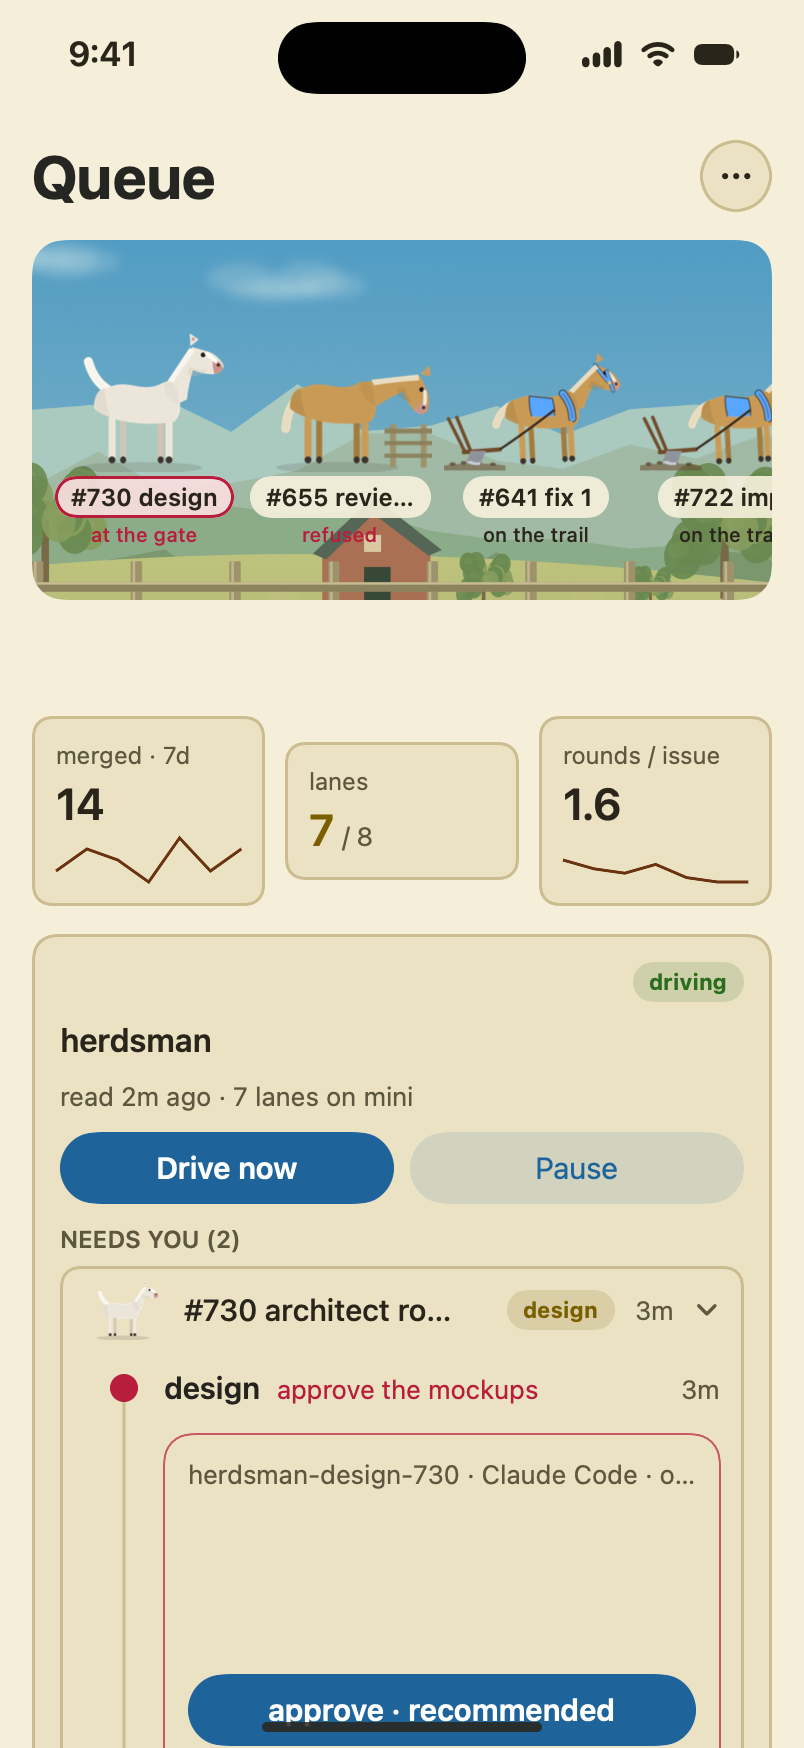
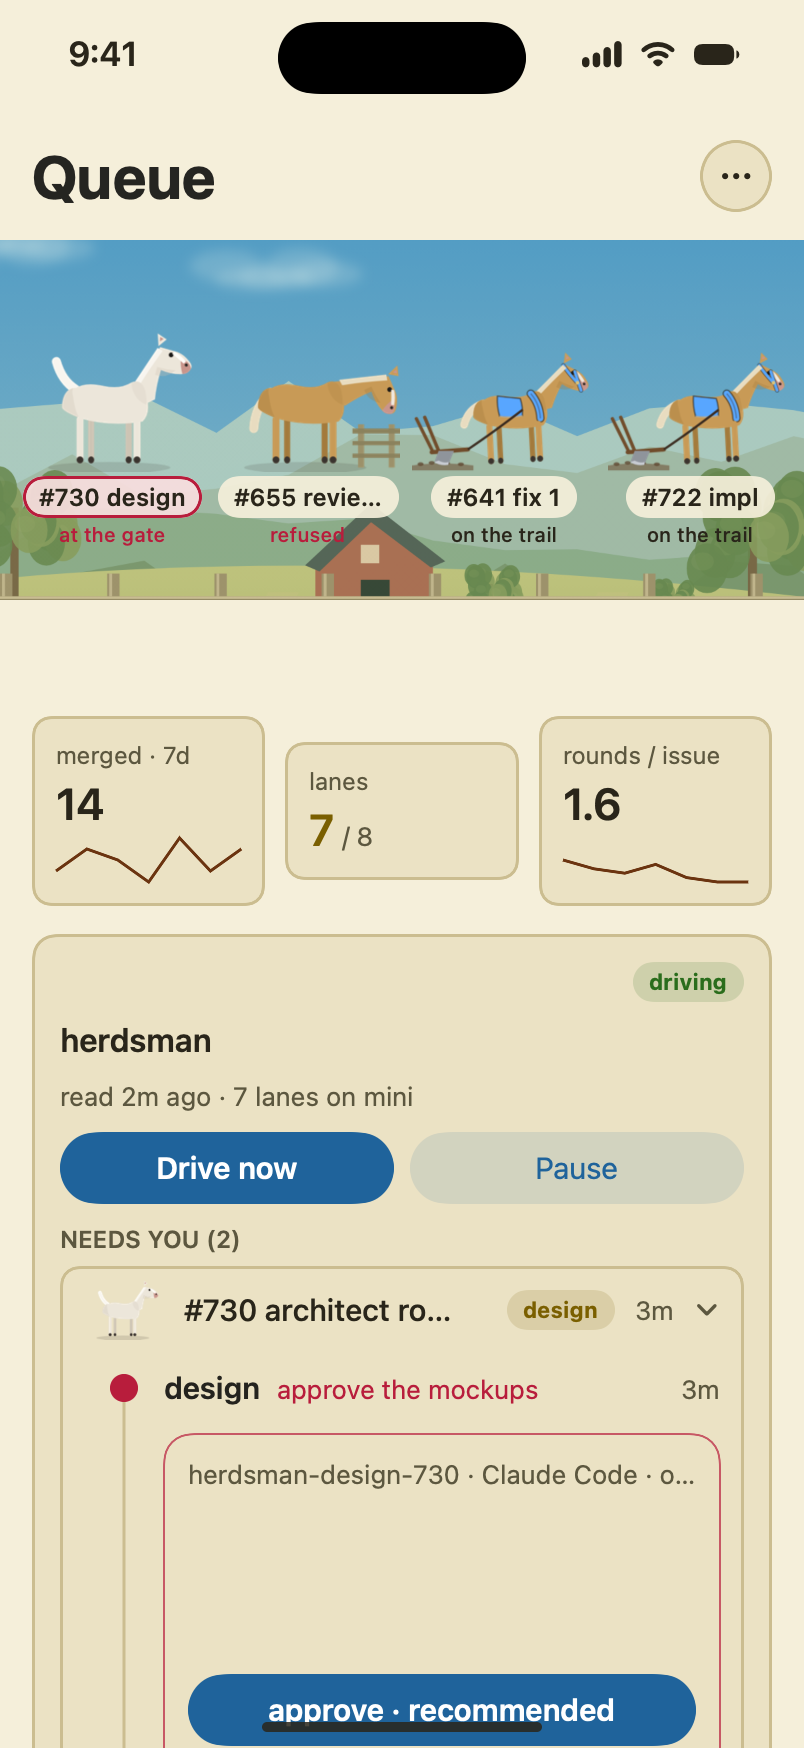
apple: the Scene strip runs full-bleed and square under the Queue sheet, as Home's pinned row (#181)

Changed region(s): [[0.0, 0.1236, 1.0, 0.3707], [0.3109, 0.1236, 0.4042, 0.1854], [0.2488, 0.1236, 0.2799, 0.1545]]

diff --git a/apple/Tests/CooeeUITests/QueueFrames.swift b/apple/Tests/CooeeUITests/QueueFrames.swift
@@ -39,12 +39,14 @@ internal enum QueueFrames {
     }()
 
     @MainActor private static func sheet() -> some View {
-        Color.clear.overlay(alignment: .top) { BlocksView(screen).padding(16) }.clipped()
+        Color.clear.overlay(alignment: .top) { BlocksView(screen).padding(BlocksView.inset) }.clipped()
     }
 
     @MainActor private static func panel() -> some View {
-        Color.clear.overlay(alignment: .top) { BlocksView(screen).padding(24).frame(width: 760).padding(.top, 36) }
-            .clipped()
+        Color.clear.overlay(alignment: .top) {
+            BlocksView(screen).padding(BlocksView.inset).frame(width: 760).padding(.top, 36)
+        }
+        .clipped()
     }
 
     internal static var all: [Frame] {

diff --git a/apple/Sources/CooeeUI/PluginSheets.swift b/apple/Sources/CooeeUI/PluginSheets.swift
@@ -54,7 +54,7 @@ internal struct PluginScreenSheet: View {
                         ProgressView()
                     }
                 }
-                .frame(maxWidth: .infinity, alignment: .leading).padding(16)
+                .frame(maxWidth: .infinity, alignment: .leading).padding(BlocksView.inset)
             }
             if let said = store.said { Text(said).ui(13, .regular, look).foregroundStyle(palette.mute).padding(8) }
             if let pending = store.screen?.root["pending"] {

diff --git a/apple/Sources/CooeeUI/BlockScene.swift b/apple/Sources/CooeeUI/BlockScene.swift
@@ -20,7 +20,7 @@ internal struct SceneBlock: View {
                 }
                 .frame(height: 140).padding(.bottom, 10)
             }
-            .frame(height: 180).clipShape(.rect(cornerRadius: 16))
+            .frame(height: 180).padding(.horizontal, -BlocksView.inset)
             .accessibilityElement(children: .contain).accessibilityLabel(block.string("label") ?? "")
         }
     }

diff --git a/apple/Sources/CooeeUI/Blocks.swift b/apple/Sources/CooeeUI/Blocks.swift
@@ -2,6 +2,9 @@ import CooeeCore
 import SwiftUI
 
 public struct BlocksView: View {
+    /// The padding a host puts around the blocks; a full-bleed block cancels it.
+    public static let inset: CGFloat = 16
+
     private let block: JSONValue
     private let act: @MainActor (BlockAction) -> Void
     private let open: @MainActor (String) -> Void
